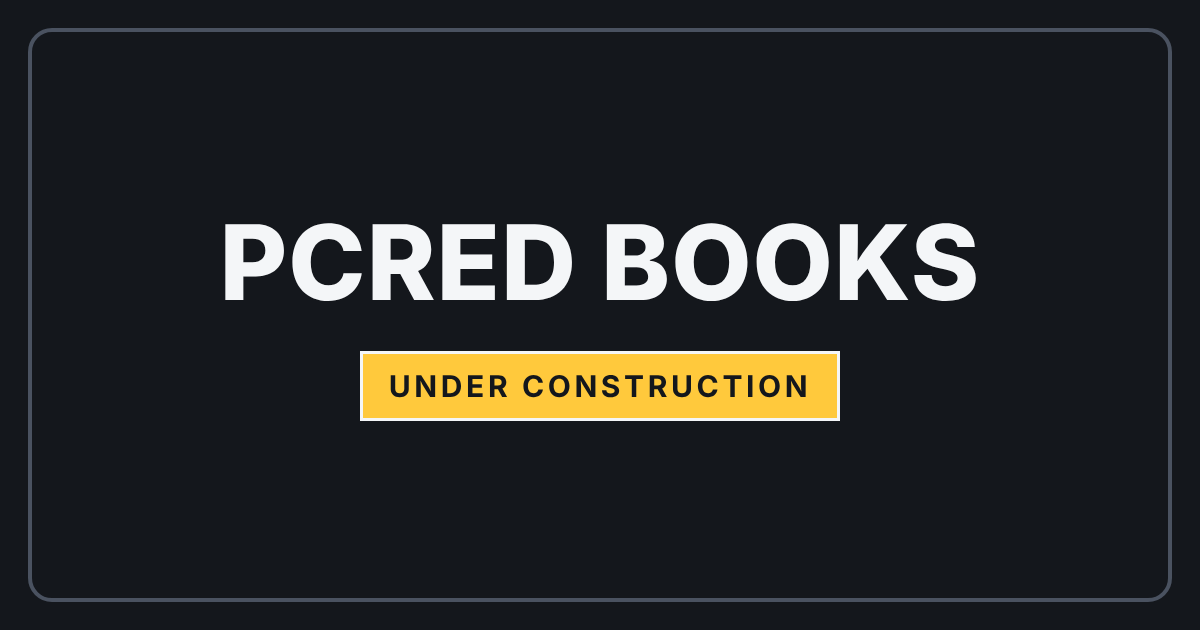
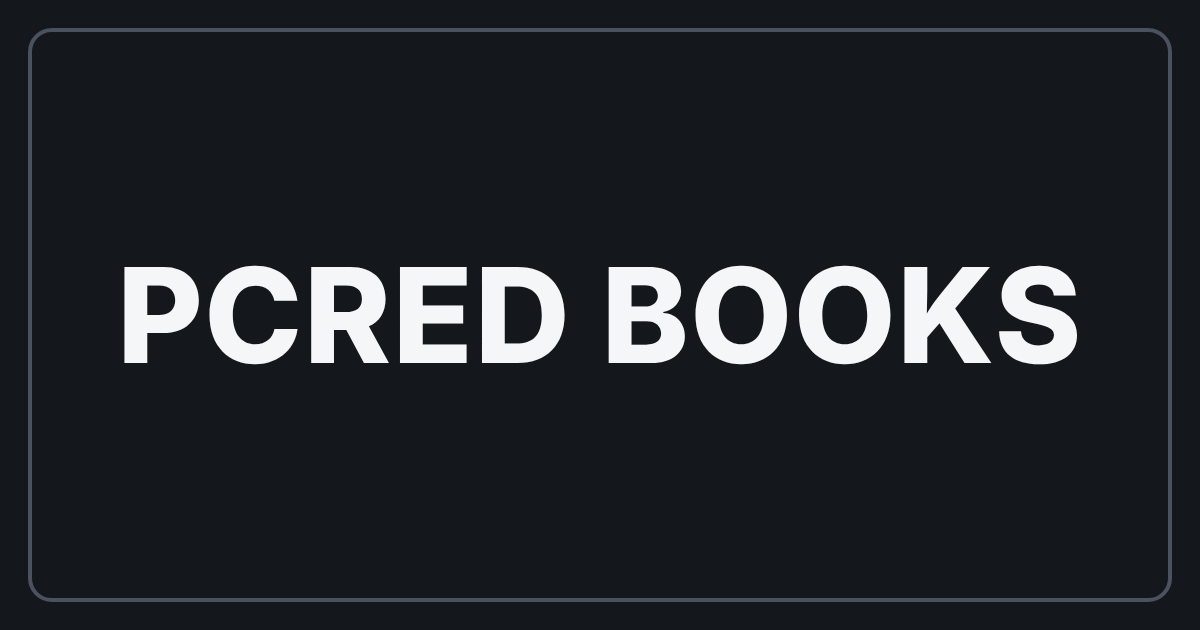
Remove UNDER CONSTRUCTION from home page and home picture
Claude-Session: https://claude.ai/code/session_01Fo58rsnLtQ2jbr4Wor9TX4

Changed region(s): [[0.0925, 0.3317, 0.8942, 0.6937]]

diff --git a/index.html b/index.html
@@ -1,11 +1,11 @@
 <!DOCTYPE html>
 <html lang="en"><head><meta charset="utf-8">
 <meta name="viewport" content="width=device-width,initial-scale=1">
-<meta name="description" content="Under construction. Open now: DOGECOIN SPIKE TRACKER and PCRED BOOKS ON EBAY.">
+<meta name="description" content="DOGECOIN SPIKE TRACKER, PCRED BOOKS ON EBAY and more.">
 <meta property="og:type" content="website">
 <meta property="og:site_name" content="PCRED BOOKS">
 <meta property="og:title" content="PCRED BOOKS">
-<meta property="og:description" content="Under construction. Open now: DOGECOIN SPIKE TRACKER and PCRED BOOKS ON EBAY.">
+<meta property="og:description" content="DOGECOIN SPIKE TRACKER, PCRED BOOKS ON EBAY and more.">
 <meta property="og:url" content="https://louiefish.github.io/">
 <meta property="og:image" content="https://louiefish.github.io/og-home.png">
 <meta property="og:image:width" content="1200">
@@ -19,7 +19,7 @@
 *{box-sizing:border-box;min-width:0}
 body{margin:0;background:var(--bg);color:var(--ink);font:16px/1.5 Inter,system-ui,sans-serif;min-height:100vh;display:flex;flex-direction:column}
 main{flex:1;max-width:900px;width:100%;margin:0 auto;padding:clamp(32px,6vw,80px) max(5vw,16px);text-align:center}
-h1{font:700 clamp(40px,10vw,84px)/1 "Space Grotesk",Inter,sans-serif;margin:0 0 20px;letter-spacing:.01em;text-align:center}
+h1{font:700 clamp(40px,10vw,84px)/1 "Space Grotesk",Inter,sans-serif;margin:0 0 40px;letter-spacing:.01em;text-align:center}
 .tape{display:inline-block;font:700 clamp(16px,3.5vw,22px)/1 "Space Grotesk",Inter,sans-serif;letter-spacing:.08em;color:#14171c;background:var(--warn);border:2px solid var(--ink);padding:12px 18px;margin:0 0 40px}
 h2{font:600 14px Inter,sans-serif;color:var(--mute);margin:0 0 12px;letter-spacing:.06em}
 a.card{display:block;text-decoration:none;color:var(--ink);background:var(--panel);border:2px solid var(--line);border-radius:12px;padding:20px 22px;max-width:520px;margin:0 auto 16px}
@@ -31,7 +31,6 @@ footer{color:var(--mute);font-size:14px;text-align:center;padding:24px 16px;bord
 </style></head><body>
 <main>
 <h1>PCRED BOOKS</h1>
-<p class="tape">UNDER CONSTRUCTION</p>
 <h2>OPEN NOW</h2>
 <a class="card" href="doge-tracker/">
 <p class="t">DOGECOIN SPIKE TRACKER</p>
